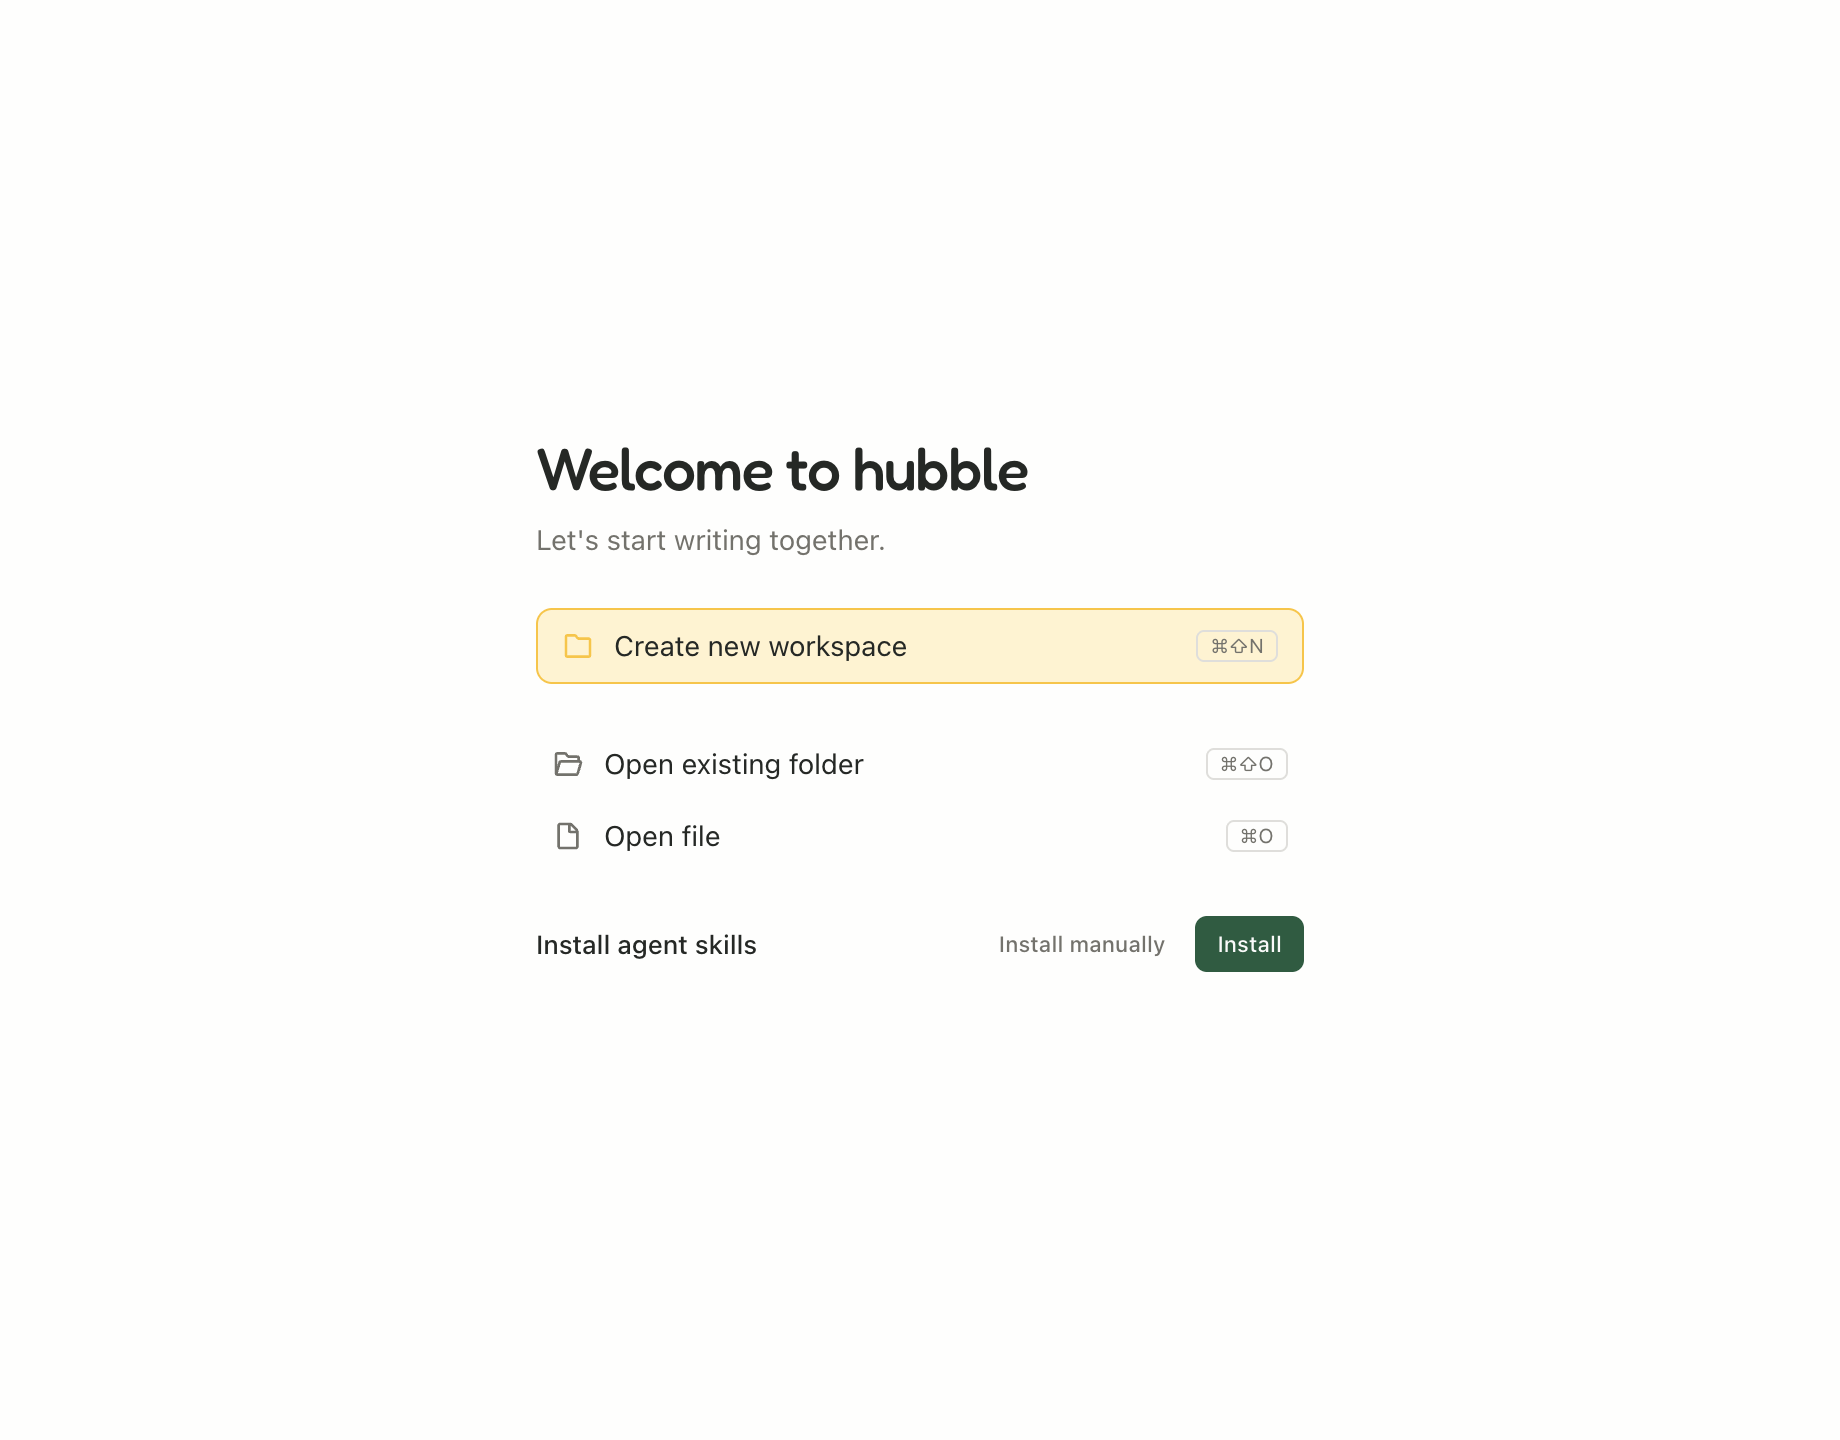
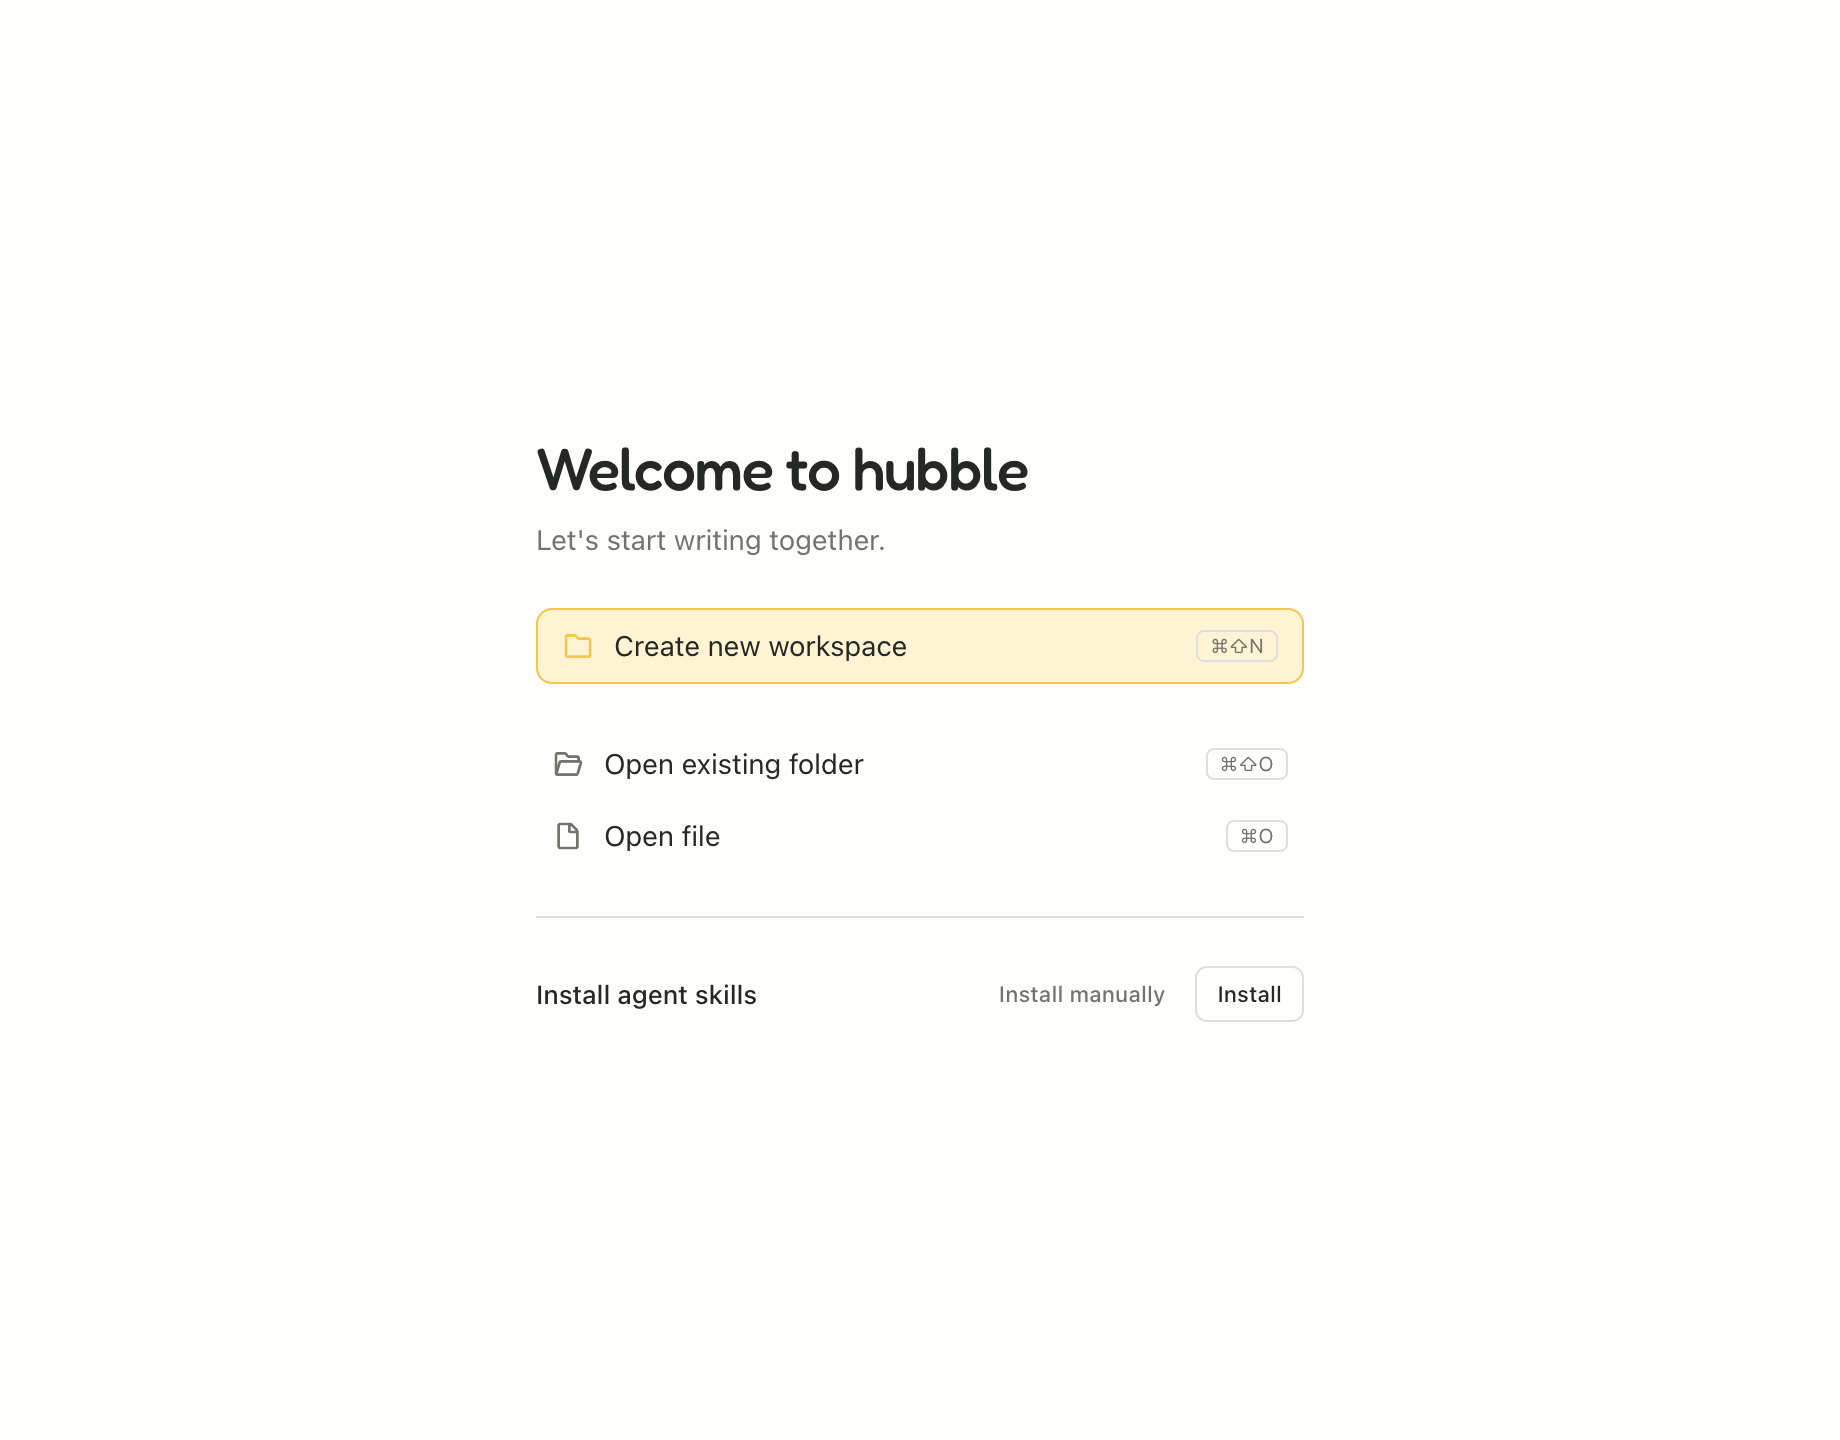
Separate welcome skills setup and outline its install action

diff --git a/apps/desktop/src/components/SkillsSettings.tsx b/apps/desktop/src/components/SkillsSettings.tsx
@@ -9,9 +9,11 @@ import { SettingsSection } from "./SettingsDialog";
 
 export function SkillsSettings({
 	title = "Agent skills",
+	installVariant = "default",
 	description = "Teach your agents how to use Hubble's features: build HTML apps, edit diagrams, or leave and respond to comments.",
 }: {
 	title?: string;
+	installVariant?: "default" | "outline";
 	description?: ReactNode;
 }) {
 	const workspacePath = useStoreValue(workspacePathStore);
@@ -40,6 +42,7 @@ export function SkillsSettings({
 							</Button>
 							<Button
 								size="sm"
+								variant={installVariant}
 								disabled={installing}
 								onClick={() => void install()}
 							>

diff --git a/apps/desktop/src/components/WelcomeScreen.tsx b/apps/desktop/src/components/WelcomeScreen.tsx
@@ -64,8 +64,15 @@ export function WelcomeScreen({
 						/>
 					</div>
 				</section>
-				<div className="welcome-rise" style={{ animationDelay: "0.45s" }}>
-					<SkillsSettings title="Install agent skills" description={null} />
+				<div
+					className="welcome-rise border-t border-border pt-6"
+					style={{ animationDelay: "0.45s" }}
+				>
+					<SkillsSettings
+						title="Install agent skills"
+						description={null}
+						installVariant="outline"
+					/>
 				</div>
 			</div>
 		</div>

diff --git a/docs/verification/welcome/README.md b/docs/verification/welcome/README.md
@@ -7,7 +7,7 @@ Electron screenshots from a fresh, isolated profile:
 
 Verified in the real Electron app with native dialog results stubbed at the Electron boundary: all three buttons and keyboard shortcuts reach the expected picker, and creating a workspace creates and opens its folder. The welcome reveal uses 100 ms staggered delays and disables motion when reduced motion is requested.
 
-The skills row shares the Settings component, including the installation hook, installed indicator, and manual-install modal; welcome changes only the title and removes the description. Electron checks cover the available action, disabling repeat clicks while installation runs, already-installed detection after reload, the manual-install dialog, the Settings installed indicator, and error feedback with retry. Skill IPC handlers are stubbed for these checks.
+The skills row shares the Settings component, including the installation hook, installed indicator, and manual-install modal; welcome changes the title, removes the description, and uses an outlined Install button below a divider. Electron checks cover the available action, disabling repeat clicks while installation runs, already-installed detection after reload, the manual-install dialog, the Settings installed indicator, and error feedback with retry. Skill IPC handlers are stubbed for these checks.
 
 The store regression cases cover a fresh profile, an older profile without a saved sidebar view, and saved Folders/Inbox choices. Only a fresh profile defaults to Inbox. Reverting the default change makes the fresh-profile test fail with Folders instead of Inbox.
 
